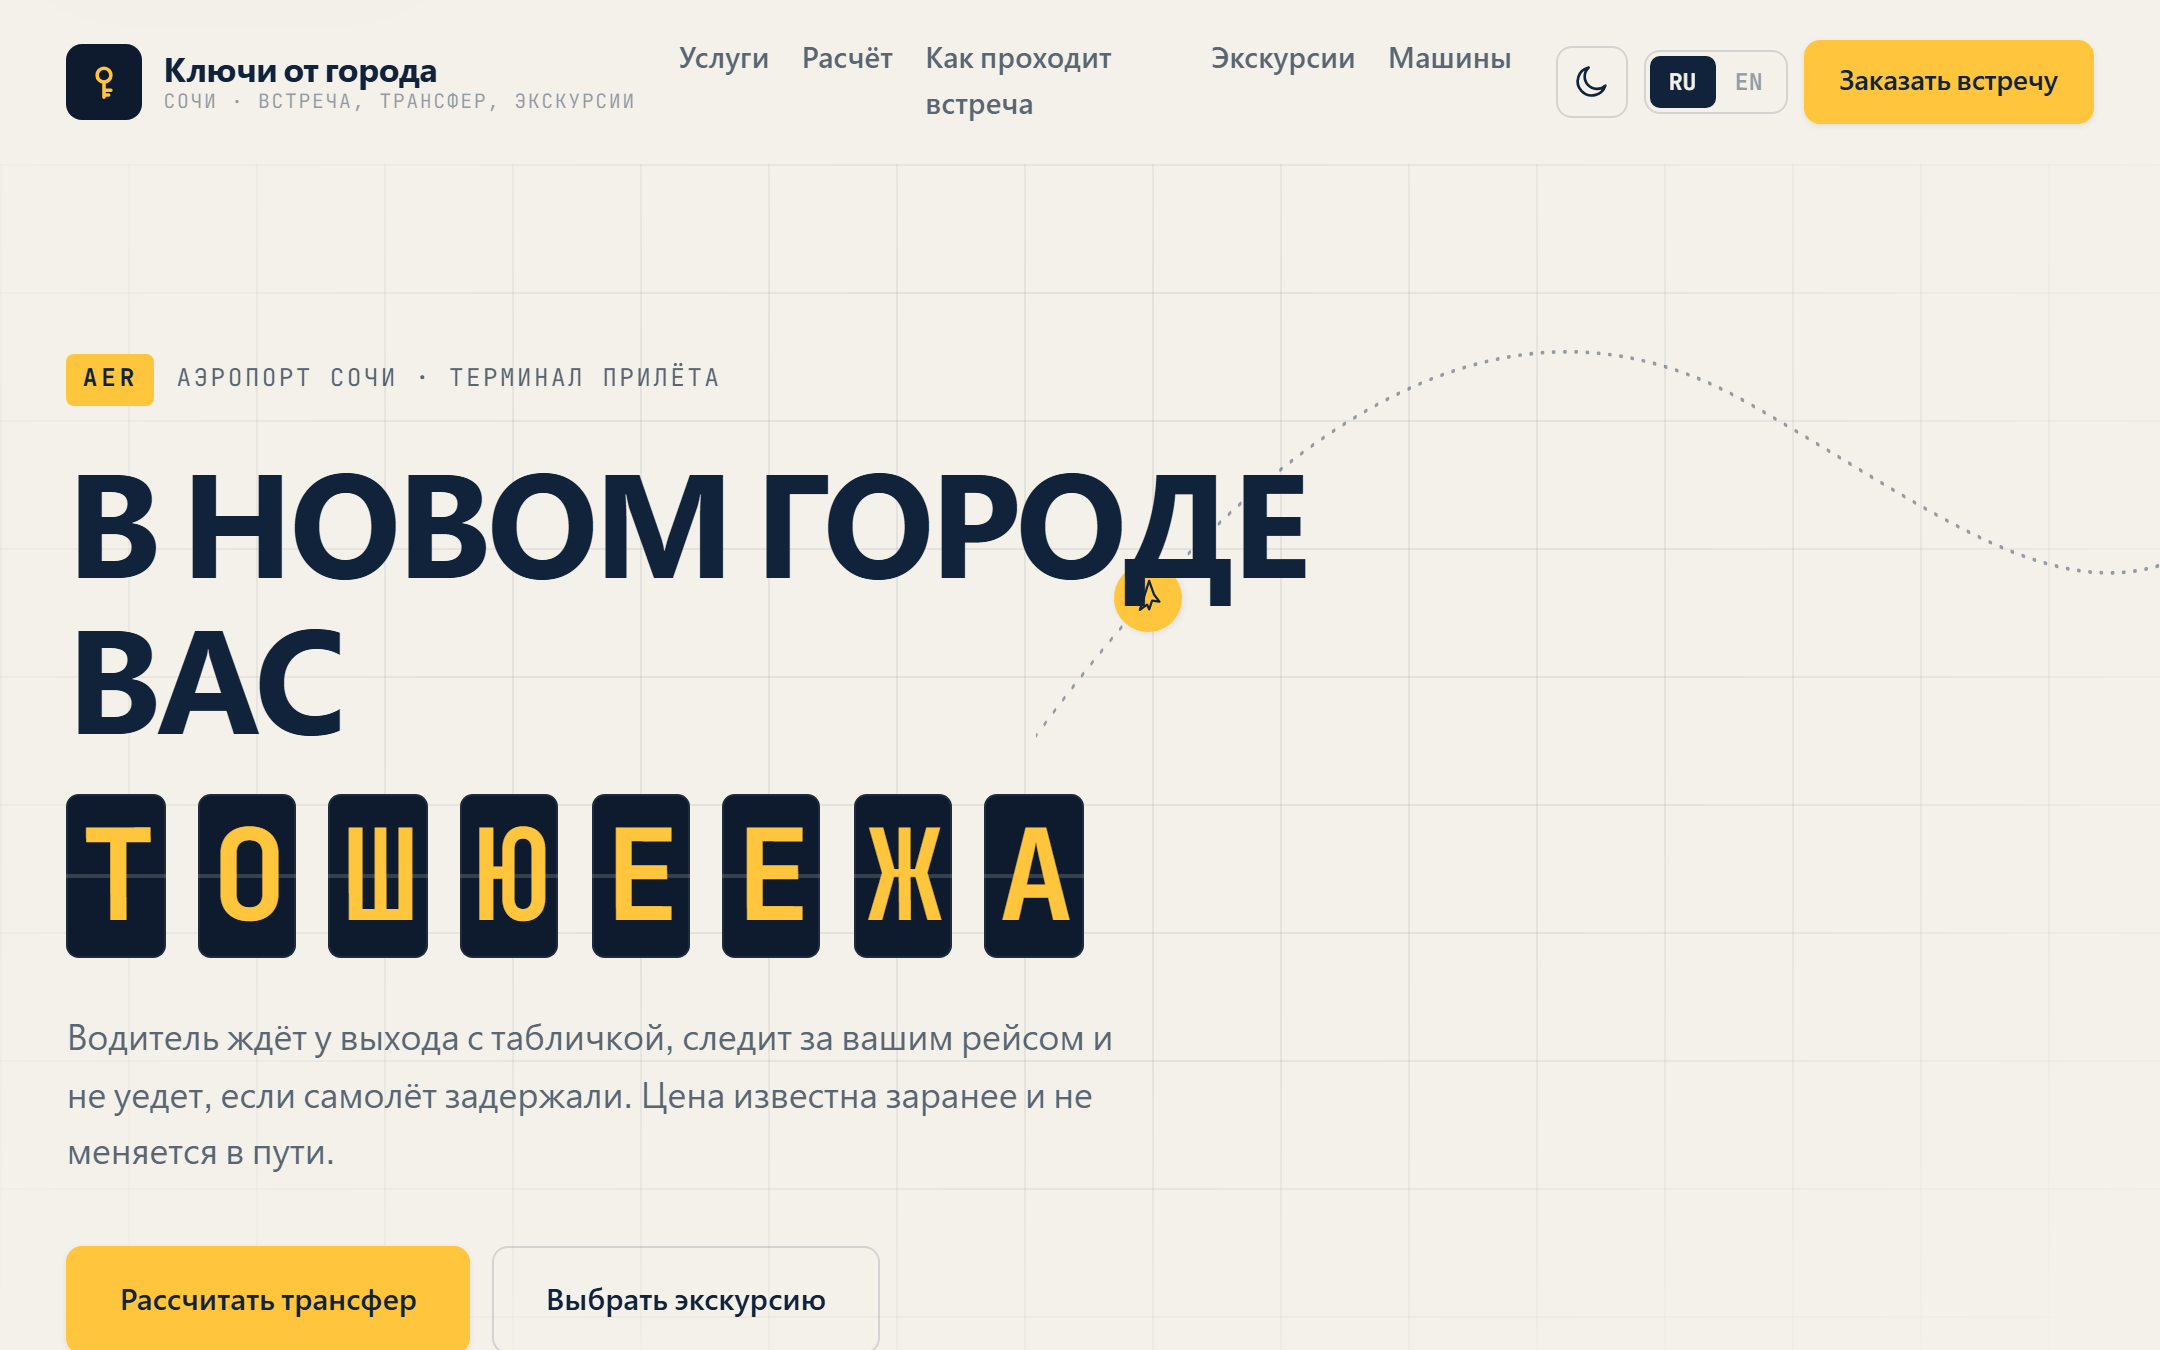
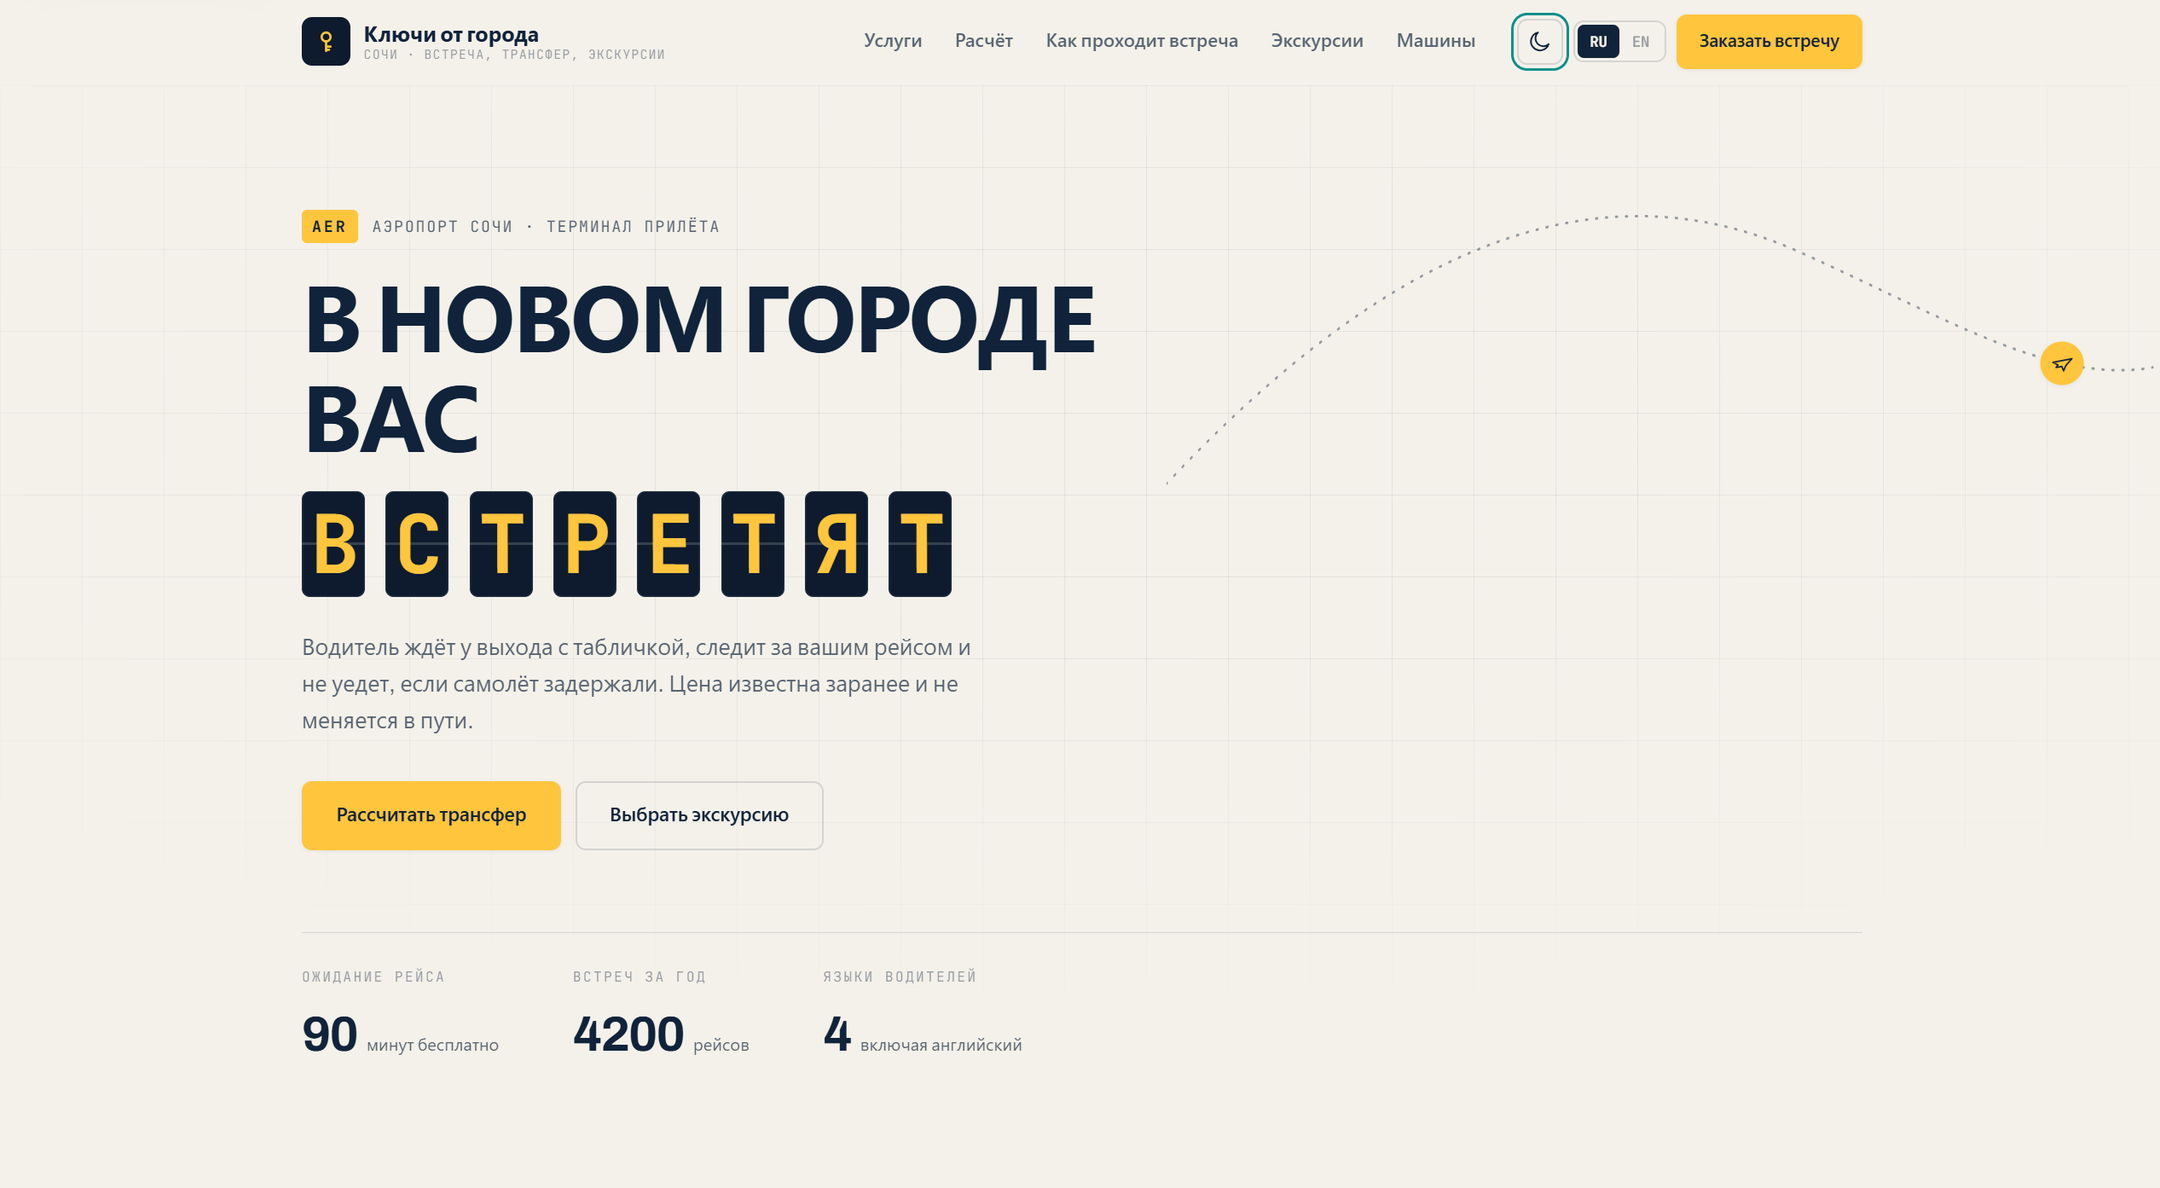
content: новая обложка «Ключей от города» и правки текстов
· Обложка заменена на свежий снимок первого экрана. Приведена к 2160 px
  по ширине, как остальные, и сжата: 193 → 110 КБ. Объявленная высота в
  projects.ts исправлена с 1350 на 1188 — иначе браузер резервировал бы
  место под прежнее соотношение сторон и содержимое прыгало бы при
  загрузке. Обложка идёт и в карточку, и в заставку рамки, и в превью
  для соцсетей.

· «Хребет»: в подписи под рамкой «умеет светлую тему» → «имеет».

· «Обо мне»: третий абзац сокращён в обеих языковых версиях.

diff --git a/src/data/site.ts b/src/data/site.ts
@@ -125,11 +125,11 @@ export const ABOUT_TEXT: Localized<string[]> = {
   ru: [
     'Я разработчик полного цикла: беру проект от идеи и до момента, когда его можно открыть, запустить или установить. Мне одинаково интересны игровая механика, вёрстка интерфейса и то, как всё собирается в готовый продукт.',
     'В играх работаю на Unity и C#: механики, процедурная генерация уровней, поведение противников. В вебе пишу на чистом JavaScript и TypeScript — без тяжёлых фреймворков там, где они не нужны, чтобы сайт быстро открывался и на слабом телефоне. Мобильные приложения делаю на Kotlin под Android, с упором на офлайн-работу и небольшой вес. Графику и модели готовлю в Blender.',
-    'Что для меня важно в работе: проект должен быть проверяемым. Там, где логика сложная — процедурная генерация уровней, подбор рецептов, локализация — я пишу автоматические проверки, чтобы поломка находилась до релиза, а не после. Двуязычность и тёмная тема закладываются с самого начала, а не прикручиваются в конце.',
+    'Что для меня важно в работе: проект должен быть проверяемым. Там, где логика сложная — процедурная генерация уровней, подбор рецептов, локализация — я пишу автоматические проверки, чтобы поломка находилась до релиза, а не после.',
   ],
   en: [
     'I am a full-cycle developer: I take a project from the idea to the point where you can open, launch or install it. Game mechanics, interface markup and the way it all comes together into a finished product interest me equally.',
     'For games I work in Unity and C#: mechanics, procedural level generation, enemy behaviour. On the web I write plain JavaScript and TypeScript — no heavy frameworks where they are not needed, so the site opens quickly even on a weak phone. Mobile apps I build in Kotlin for Android, focused on offline use and a small footprint. Art and models I prepare in Blender.',
-    'What matters to me in the work: a project has to be verifiable. Wherever the logic gets complex — procedural level generation, recipe matching, localisation — I write automated checks, so breakage is found before release rather than after. Bilingual support and a dark theme are designed in from the start, not bolted on at the end.',
+    'What matters to me in the work: a project has to be verifiable. Wherever the logic gets complex — procedural level generation, recipe matching, localisation — I write automated checks, so breakage is found before release rather than after.',
   ],
 };

diff --git a/src/data/projects.ts b/src/data/projects.ts
@@ -247,7 +247,7 @@ export const PROJECTS: Project[] = [
     demo: {
       src: '/play/hrebet/index.html',
       note: {
-        ru: 'Внутри рабочие переключатели темы и языка — сайт двуязычный и умеет светлую тему.',
+        ru: 'Внутри рабочие переключатели темы и языка — сайт двуязычный и имеет светлую тему.',
         en: 'The theme and language switches inside are live — the site is bilingual and has a light theme.',
       },
     },
@@ -426,7 +426,7 @@ export const PROJECTS: Project[] = [
     cover: {
       src: '/media/kluchi-ot-goroda/cover.png',
       width: 2160,
-      height: 1350,
+      height: 1188,
       alt: {
         ru: 'Первый экран: заголовок с табло прилёта и дуга перелёта справа',
         en: 'The first screen: the headline with the arrivals board and the flight arc on the right',
